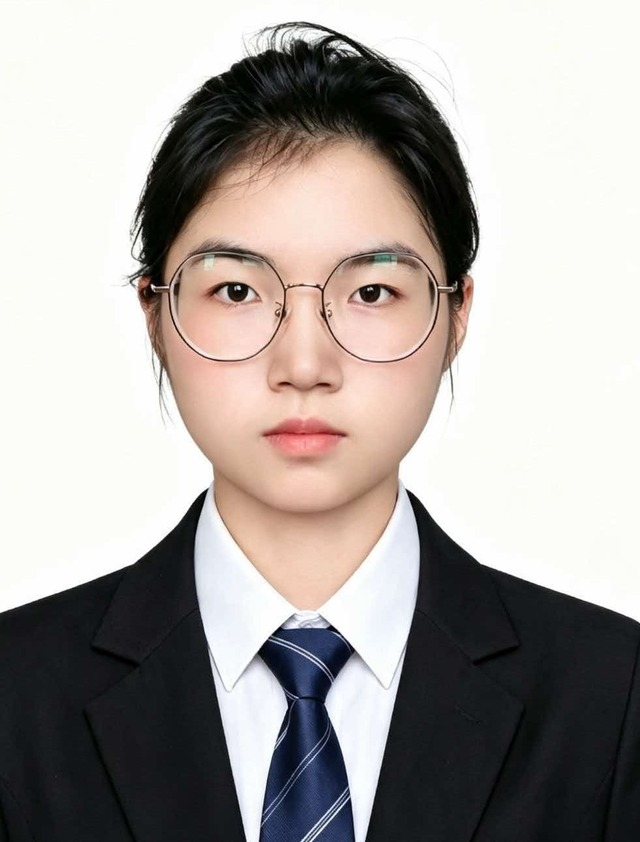
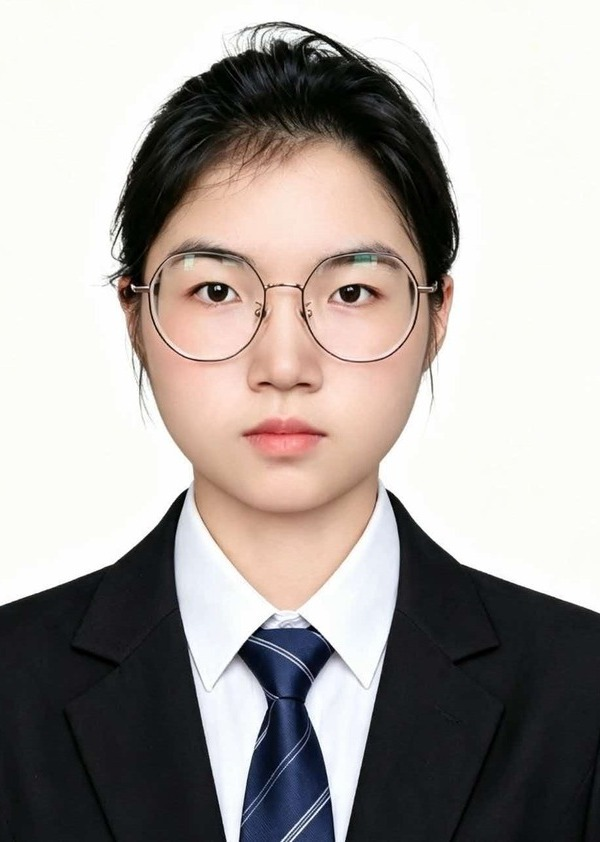
更新证书图片（用户重新保存的高清版）并调整头像构图

diff --git a/index.html b/index.html
@@ -168,6 +168,7 @@ img { display: block; max-width: 100%; }
   width: 106px; height: 106px;
   border-radius: 50%;
   object-fit: cover;
+  object-position: 50% 0%;
   border: 3px solid #fff;
   box-shadow: 0 0 0 1px var(--line), 0 8px 20px rgba(28,39,51,0.14);
 }
@@ -1027,14 +1028,22 @@ a.chip:hover { border-color: var(--accent); color: var(--accent); }
             <div class="cert-card__caption">Python 基础能力认证 <span class="hint">证书截图</span></div>
           </div>
 
-          <div class="cert-card">
-            <div class="cert-card__name">PROMPT 工程师认证</div>
-            <div class="cert-card__desc">精通提示词设计与优化，擅长与大模型高效交互</div>
+          <div class="cert-card cert-card--img" data-cert="cert-prompt.jpg" data-title="PROMPT 工程师认证" role="button" tabindex="0" aria-label="查看 PROMPT 工程师认证证书大图">
+            <div class="cert-thumb">
+              <img src="certs/cert-prompt.jpg" alt="PROMPT 工程师认证证书" loading="lazy">
+              <span class="cert-thumb__zoom">点击查看大图</span>
+            </div>
+            <div class="cert-card__caption">PROMPT 工程师认证 <span class="hint">证书截图</span></div>
           </div>
-          <div class="cert-card">
-            <div class="cert-card__name">智能体工程师认证</div>
-            <div class="cert-card__desc">具备 AI Agent 设计与开发能力，熟悉智能体协作</div>
+
+          <div class="cert-card cert-card--img" data-cert="cert-agent.jpg" data-title="智能体工程师认证" role="button" tabindex="0" aria-label="查看智能体工程师认证证书大图">
+            <div class="cert-thumb">
+              <img src="certs/cert-agent.jpg" alt="智能体工程师认证证书" loading="lazy">
+              <span class="cert-thumb__zoom">点击查看大图</span>
+            </div>
+            <div class="cert-card__caption">智能体工程师认证 <span class="hint">证书截图</span></div>
           </div>
+
           <div class="cert-card">
             <div class="cert-card__name">人工智能训练师（高级）</div>
             <div class="cert-card__desc">全面的 AI 训练方法论与实践经验</div>
